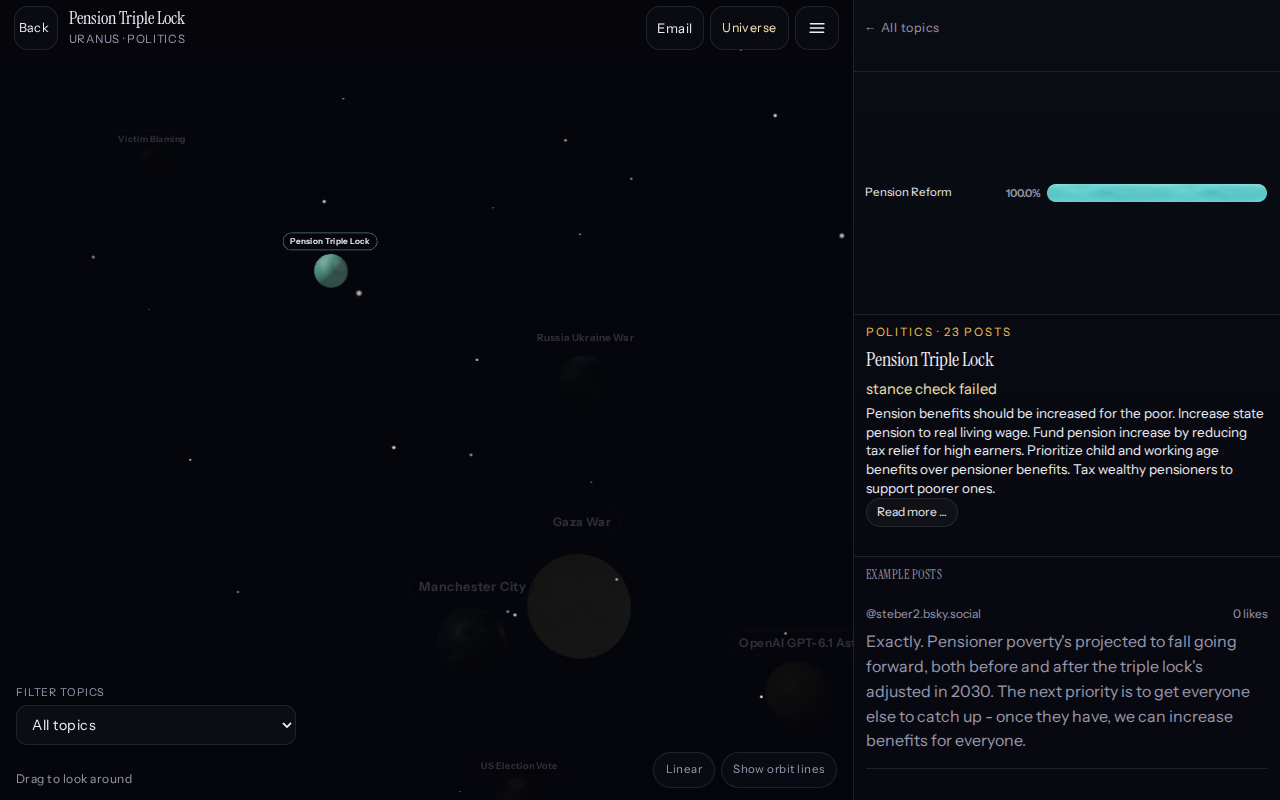
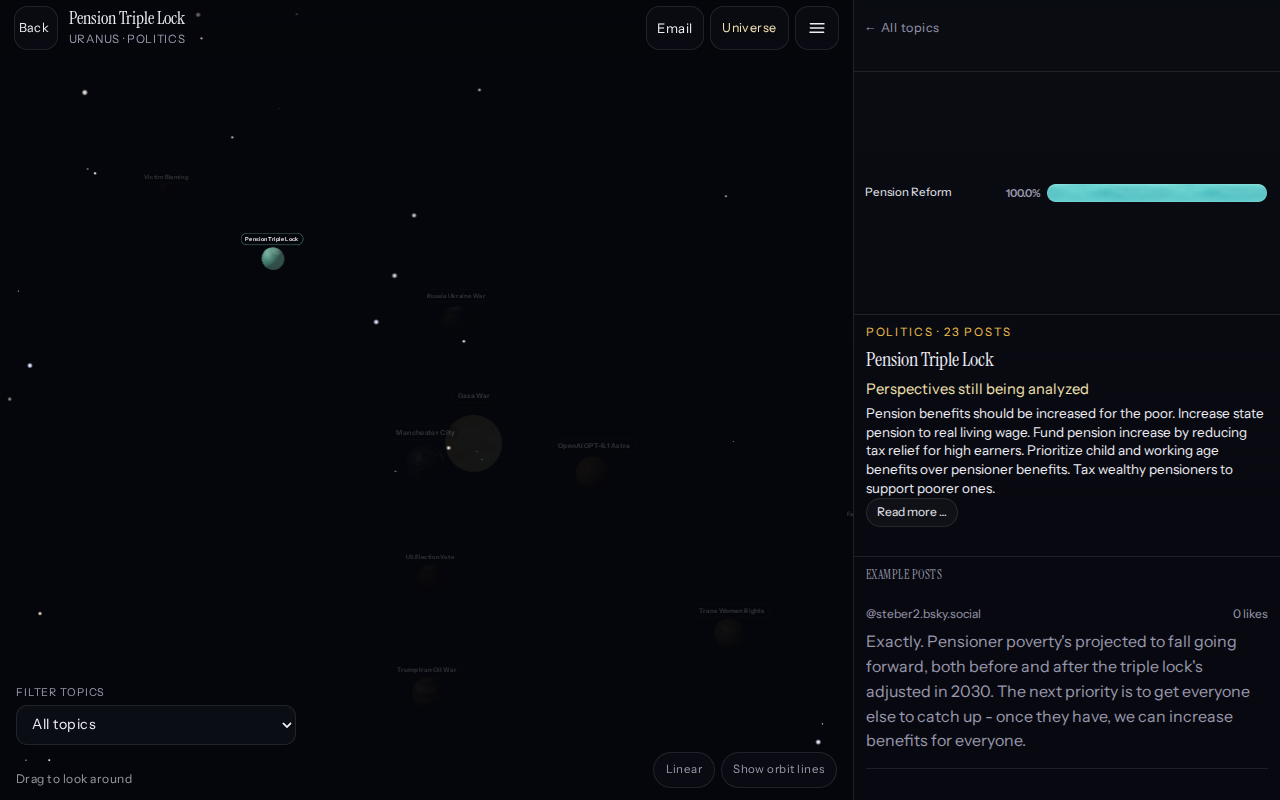
Show a neutral reader line when a stance check fails.
The planet still stores stance check failed, and the run still logs and counts it. Readers see Perspectives still being analyzed, not that failure text and not the opposing-view note.

diff --git a/src/lib/copy.js b/src/lib/copy.js
@@ -1,8 +1,9 @@
 export const SINGLE_VIEW_NOTE = 'No clear opposing view found in this sample'
 export const STANCE_CHECK_FAILED = 'stance check failed'
+export const PERSPECTIVES_PENDING = 'Perspectives still being analyzed'
 
 export function oneViewNote(topic) {
-  if (topic && topic.stance_check === STANCE_CHECK_FAILED) return STANCE_CHECK_FAILED
+  if (topic && topic.stance_check === STANCE_CHECK_FAILED) return PERSPECTIVES_PENDING
   if (topic && topic.opposing_note) return topic.opposing_note
   return SINGLE_VIEW_NOTE
 }

diff --git a/pipeline/README.md b/pipeline/README.md
@@ -67,7 +67,7 @@ Inside a candidate group, at most 3 posts per author count. Extra posts from tha
 
 ## Faces and labels
 
-Each kept planet is split into **1–6 faces** in its own MiniLM space. Every count from 2 to 6 is tried (k-means with three deterministic restarts), and the count with the best mean cosine silhouette wins; a near tie goes to the smaller count. A count only competes when every face has at least 2 posts and 5% of the planet, no two face centroids are at cosine 0.90 or closer (that line is higher than the planet-merge line on purpose: two stances of one subject sit above 0.72 on MiniLM), and every face is at least as tight as the planet. Faces do not have to be balanced: a small, tight minority is a face. A planet where no count passes is published as one perspective. It carries `opposing_note` (`No clear opposing view found in this sample`) and `face_distinctness` 0. A second face is not forced. A face that does not share a claim, judged on a spread of up to 40 posts rather than the few closest to the centroid, is dropped. If one real face remains, the planet stays. A planet is not removed for having one face. Representative posts: closest to the face embedding first, then higher likes. The cosine is the one already computed for clustering. Cap is `representative_posts` (36). Two faces with the same or near-same title are merged. When the label backend is a model, one more call merges faces that argue the same side even when the titles differ. If one face would remain, one call labels an even spread of posts: at most 40 when the planet has fewer than 100 posts, and at most 100 when it has 100 or more. The whole planet is used when it is smaller than that cap. A second face is added only when the other pole is at least `stance_second_face_share` of that sample, at least two posts, and one coherent claim. Otherwise the planet stays one face and keeps `opposing_note`. A check that times out, returns an HTTP error, or cannot be parsed does not: the planet keeps the faces it had, `stance_check` is `stance check failed`, and the run logs `Stance check failed: N planet(s)` with that count on the cost run. That sample is the count the split uses. The whole planet is not sent. The heuristic backend makes neither call. A face added this way is not wide-relabeled and is not folded back by a later title match. Face titles name the claim in a grammatical phrase, not a camp ("Anti Republican"), not an insult, and not two leftover words ("Evangelists Unequipped"). A title or summary that is still a camp, a fragment, a "but" joining a second claim, or an ellipsis is rewritten once. If it is still not one claim, that face is dropped. A face whose title and summary share no subject word is dropped, as is a face that cannot show three posts of its claim. Two faces that share only a one-off word, or only an office word such as prosecutor, are different stories. A face title has to appear in most of the posts it shows. An "and" ending the posts never say is cut off the summary. A planet name that never appears on its faces is replaced with the face's claim. Two faces that are different stories, or whose posts share no subject word, are split into separate planets. Each of those planets goes through this same face split, gets its own name, and counts toward the catalog ceiling. A planet needs at least `min_planet_posts` posts (5 by default). A candidate or a split story under that floor is left out before any label, name, or brief call, with one INFO line naming the section, a label hint, and the post count. It is not glued onto a sibling and it does not fill a catalog slot. The next eligible candidate, in the existing rank order, takes the slot. Face titles are not numbered to look distinct.
+Each kept planet is split into **1–6 faces** in its own MiniLM space. Every count from 2 to 6 is tried (k-means with three deterministic restarts), and the count with the best mean cosine silhouette wins; a near tie goes to the smaller count. A count only competes when every face has at least 2 posts and 5% of the planet, no two face centroids are at cosine 0.90 or closer (that line is higher than the planet-merge line on purpose: two stances of one subject sit above 0.72 on MiniLM), and every face is at least as tight as the planet. Faces do not have to be balanced: a small, tight minority is a face. A planet where no count passes is published as one perspective. It carries `opposing_note` (`No clear opposing view found in this sample`) and `face_distinctness` 0. A second face is not forced. A face that does not share a claim, judged on a spread of up to 40 posts rather than the few closest to the centroid, is dropped. If one real face remains, the planet stays. A planet is not removed for having one face. Representative posts: closest to the face embedding first, then higher likes. The cosine is the one already computed for clustering. Cap is `representative_posts` (36). Two faces with the same or near-same title are merged. When the label backend is a model, one more call merges faces that argue the same side even when the titles differ. If one face would remain, one call labels an even spread of posts: at most 40 when the planet has fewer than 100 posts, and at most 100 when it has 100 or more. The whole planet is used when it is smaller than that cap. A second face is added only when the other pole is at least `stance_second_face_share` of that sample, at least two posts, and one coherent claim. Otherwise the planet stays one face and keeps `opposing_note`. A check that times out, returns an HTTP error, or cannot be parsed does not: the planet keeps the faces it had, `stance_check` is `stance check failed` for the run log and the cost counter, and the reader sees `Perspectives still being analyzed` rather than the opposing-view note. The run logs `Stance check failed: N planet(s)` with that count on the cost run. That sample is the count the split uses. The whole planet is not sent. The heuristic backend makes neither call. A face added this way is not wide-relabeled and is not folded back by a later title match. Face titles name the claim in a grammatical phrase, not a camp ("Anti Republican"), not an insult, and not two leftover words ("Evangelists Unequipped"). A title or summary that is still a camp, a fragment, a "but" joining a second claim, or an ellipsis is rewritten once. If it is still not one claim, that face is dropped. A face whose title and summary share no subject word is dropped, as is a face that cannot show three posts of its claim. Two faces that share only a one-off word, or only an office word such as prosecutor, are different stories. A face title has to appear in most of the posts it shows. An "and" ending the posts never say is cut off the summary. A planet name that never appears on its faces is replaced with the face's claim. Two faces that are different stories, or whose posts share no subject word, are split into separate planets. Each of those planets goes through this same face split, gets its own name, and counts toward the catalog ceiling. A planet needs at least `min_planet_posts` posts (5 by default). A candidate or a split story under that floor is left out before any label, name, or brief call, with one INFO line naming the section, a label hint, and the post count. It is not glued onto a sibling and it does not fill a catalog slot. The next eligible candidate, in the existing rank order, takes the slot. Face titles are not numbered to look distinct.
 
 `label_backend: auto` tries, in order:
 

diff --git a/docs/evidence/face-stance/README.md b/docs/evidence/face-stance/README.md
@@ -130,4 +130,4 @@ Today's Jev ratio (7,232 calls on a 9,874-post file) is a cache-filling day, not
 |---|---|
 | `gaza-two-face-desktop.png`, `gaza-two-face-mobile.png` | Gaza War, two faces (Israel War Crimes, Zionism Condemned). No opposing-view note. This is the layout a split publishes. |
 | `one-face-opposing-note-desktop.png`, `one-face-opposing-note-mobile.png` | US Election Vote, one face, with `No clear opposing view found in this sample`. |
-| `stance-check-failed-desktop.png`, `stance-check-failed-mobile.png` | Pension Triple Lock, one face, marked `stance check failed`, with no opposing-view note. |
+| `stance-check-failed-desktop.png`, `stance-check-failed-mobile.png` | Pension Triple Lock, one face. The data field is `stance check failed`. The reader line is `Perspectives still being analyzed`, not the opposing-view note. This planet was patched for the screenshot; it was not a pipeline failure. |
